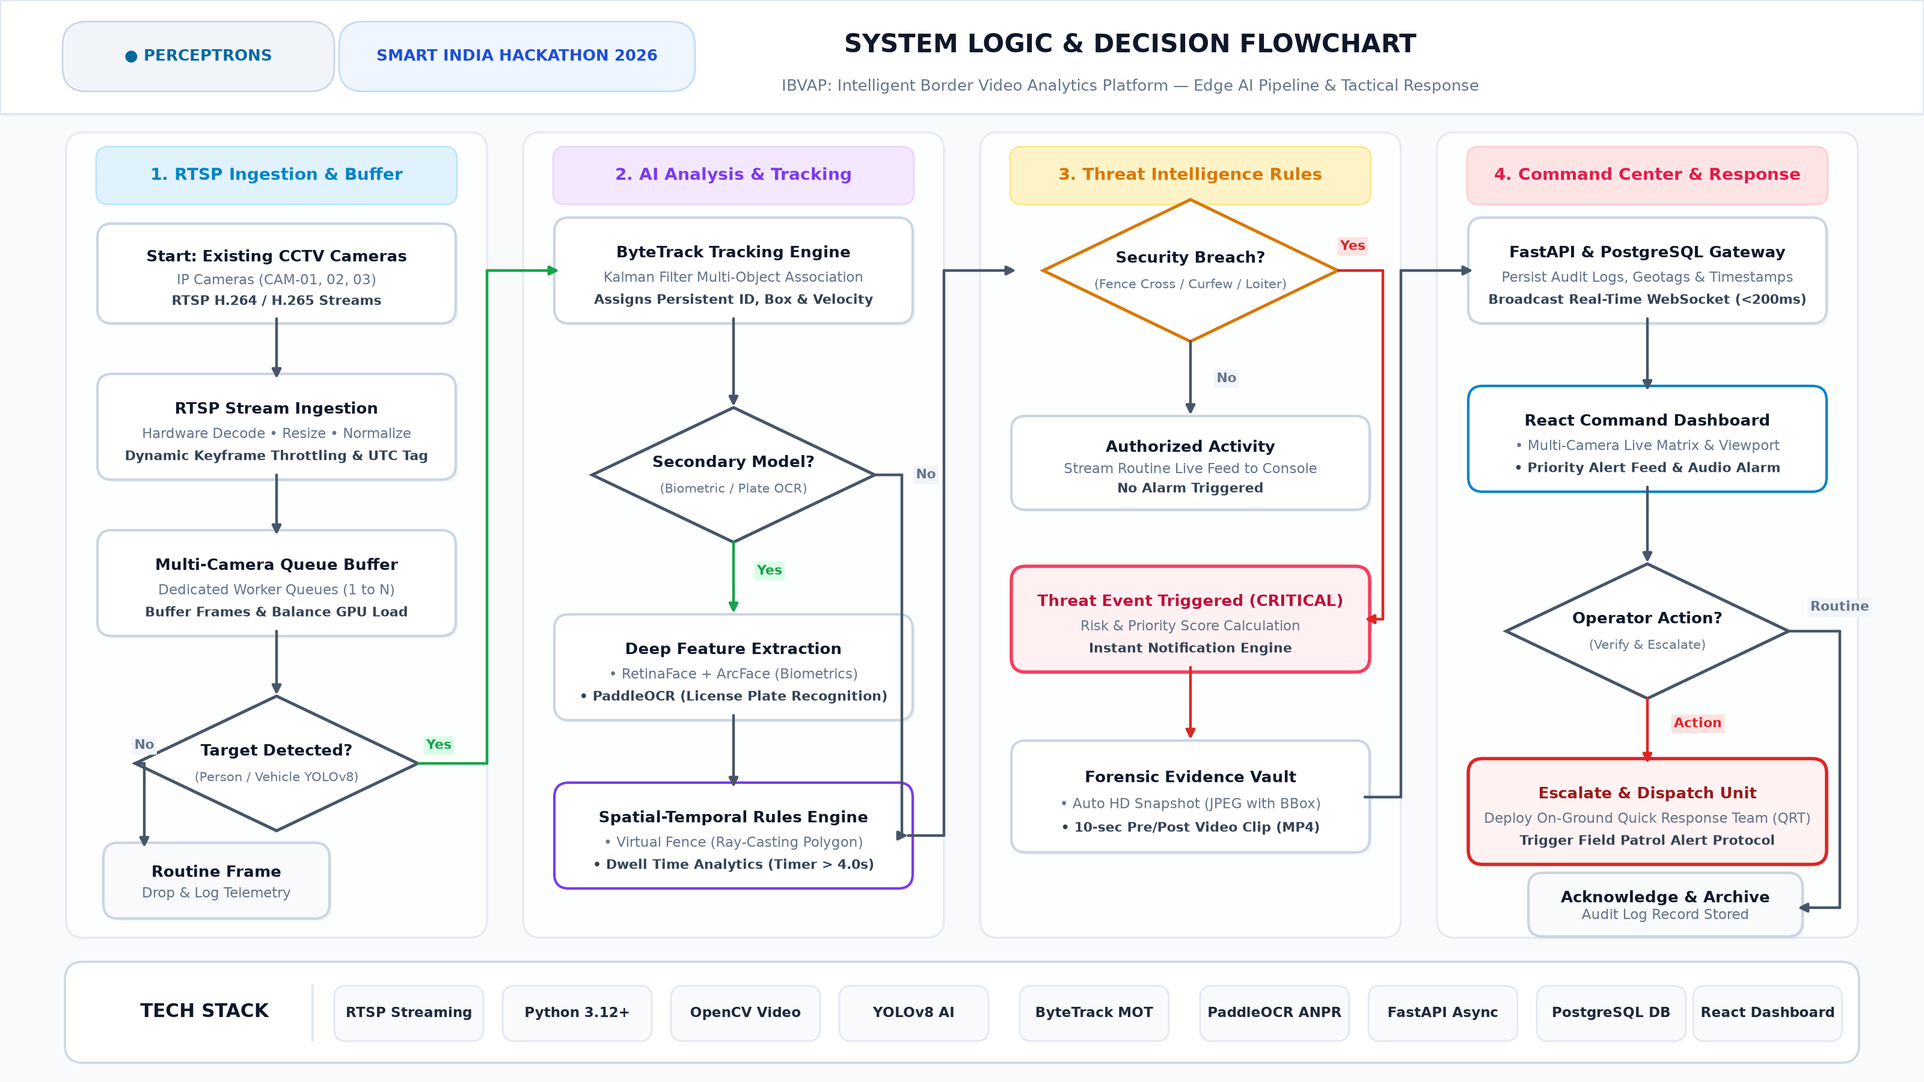
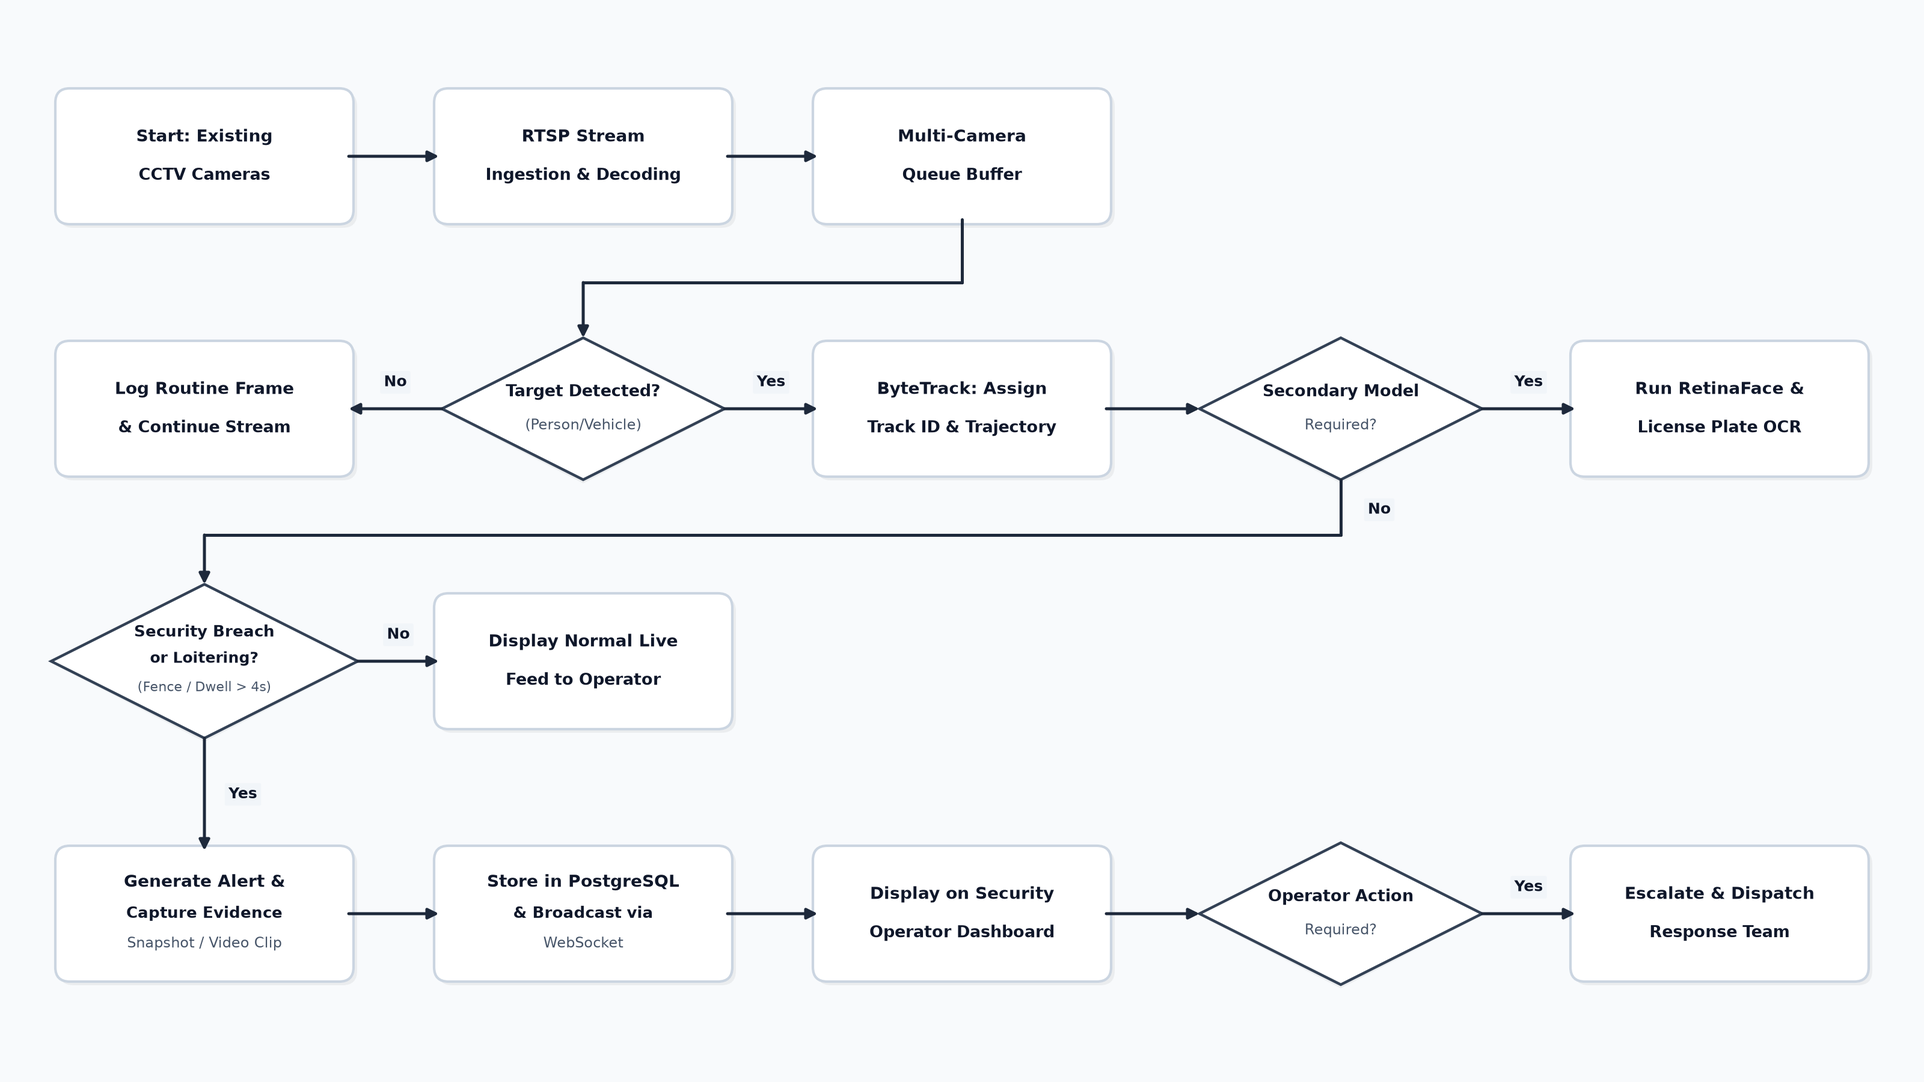
fix(flowchart): pure edge-to-edge layout without headers for SIH PPT slide space optimization

diff --git a/render_flowchart.py b/render_flowchart.py
@@ -1,258 +1,195 @@
 import matplotlib.pyplot as plt
 import matplotlib.patches as patches
 from matplotlib.patches import FancyBboxPatch, Polygon
-import numpy as np
 
-# Set figure for 16:9 widescreen presentation slide (1920x1080 at 120 dpi = 16 x 9 inches)
-fig = plt.figure(figsize=(16, 9), dpi=130)
+# Standard 16:9 presentation slide without headers or footers
+fig = plt.figure(figsize=(16, 9), dpi=150)
 ax = fig.add_axes([0, 0, 1, 1])
 ax.set_xlim(0, 16)
 ax.set_ylim(0, 9)
 ax.axis('off')
 
-# Background
+# Clean minimal presentation background
 fig.patch.set_facecolor('#F8FAFC')
 ax.set_facecolor('#F8FAFC')
 
-# ----------------- HEADER -----------------
-# Header banner
-header_bg = FancyBboxPatch((0, 8.05), 16, 0.95, boxstyle="square,pad=0", 
-                           facecolor="#FFFFFF", edgecolor="#E2E8F0", linewidth=1.5)
-ax.add_patch(header_bg)
-
-# Team / SIH Badges
-perceptrons_badge = FancyBboxPatch((0.6, 8.32), 2.1, 0.42, boxstyle="round,pad=0.08,rounding_size=0.2",
-                                   facecolor="#F1F5F9", edgecolor="#CBD5E1", linewidth=1)
-ax.add_patch(perceptrons_badge)
-ax.text(1.65, 8.53, "● PERCEPTRONS", color="#0369A1", fontsize=9.5, fontweight='bold', ha='center', va='center', fontfamily='sans-serif')
-
-sih_badge = FancyBboxPatch((2.9, 8.32), 2.8, 0.42, boxstyle="round,pad=0.08,rounding_size=0.2",
-                           facecolor="#EFF6FF", edgecolor="#BFDBFE", linewidth=1)
-ax.add_patch(sih_badge)
-ax.text(4.3, 8.53, "SMART INDIA HACKATHON 2026", color="#1D4ED8", fontsize=9.5, fontweight='bold', ha='center', va='center', fontfamily='sans-serif')
-
-# Main Title & Subtitle
-ax.text(9.4, 8.62, "SYSTEM LOGIC & DECISION FLOWCHART", color="#0F172A", fontsize=15, fontweight='black', ha='center', va='center', fontfamily='sans-serif')
-ax.text(9.4, 8.28, "IBVAP: Intelligent Border Video Analytics Platform — Edge AI Pipeline & Tactical Response", color="#64748B", fontsize=9.5, ha='center', va='center', fontfamily='sans-serif')
-
-# ----------------- COLUMN CONTAINERS & HEADERS -----------------
-cols_x = [0.6, 4.4, 8.2, 12.0]
-col_w = 3.4
-col_h = 6.6
-col_bottom = 1.25
-
-col_meta = [
-    ("1. RTSP Ingestion & Buffer", "#E0F2FE", "#BAE6FD", "#0284C7"),
-    ("2. AI Analysis & Tracking", "#F3E8FF", "#E9D5FF", "#7C3AED"),
-    ("3. Threat Intelligence Rules", "#FEF3C7", "#FDE68A", "#D97706"),
-    ("4. Command Center & Response", "#FFE4E6", "#FECDD3", "#E11D48"),
-]
-
-for idx, (cx, (title, bg, border, text_col)) in enumerate(zip(cols_x, col_meta)):
-    # Subtle Column Card
-    col_rect = FancyBboxPatch((cx, col_bottom), col_w, col_h, boxstyle="round,pad=0.05,rounding_size=0.15",
-                              facecolor="#FFFFFF", edgecolor="#E2E8F0", linewidth=1.2, alpha=0.85)
-    ax.add_patch(col_rect)
+# Helper: Draw Card
+def draw_card(cx, cy, w=2.4, h=1.05, title="", line2="", line3="", border="#CBD5E1", fill="#FFFFFF", tcol="#0F172A"):
+    x = cx - w / 2
+    y = cy - h / 2
     
-    # Column Header Pill
-    hdr_pill = FancyBboxPatch((cx + 0.25, 7.35), col_w - 0.5, 0.38, boxstyle="round,pad=0.05,rounding_size=0.1",
-                              facecolor=bg, edgecolor=border, linewidth=1)
-    ax.add_patch(hdr_pill)
-    ax.text(cx + col_w / 2, 7.54, title, color=text_col, fontsize=10, fontweight='bold', ha='center', va='center', fontfamily='sans-serif')
-
-# Helper function to draw cards
-def draw_card(x, y, w, h, title, subtitle="", sub2="", border="#CBD5E1", fill="#FFFFFF", tcol="#0F172A", alert=False):
-    shadow = FancyBboxPatch((x + 0.02, y - 0.02), w, h, boxstyle="round,pad=0.04,rounding_size=0.12",
-                            facecolor="#000000", edgecolor="none", alpha=0.04)
+    # Soft drop shadow
+    shadow = FancyBboxPatch((x + 0.03, y - 0.03), w, h, boxstyle="round,pad=0.04,rounding_size=0.12",
+                            facecolor="#000000", edgecolor="none", alpha=0.05)
     ax.add_patch(shadow)
+    
+    # Main card
     card = FancyBboxPatch((x, y), w, h, boxstyle="round,pad=0.04,rounding_size=0.12",
-                          facecolor=fill, edgecolor=border, linewidth=2.0 if alert else 1.5)
+                          facecolor=fill, edgecolor=border, linewidth=1.5)
     ax.add_patch(card)
     
-    if subtitle and sub2:
-        ax.text(x + w/2, y + h*0.68, title, color=tcol, fontsize=9.5, fontweight='bold', ha='center', va='center', fontfamily='sans-serif')
-        ax.text(x + w/2, y + h*0.42, subtitle, color="#64748B", fontsize=8.2, ha='center', va='center', fontfamily='sans-serif')
-        ax.text(x + w/2, y + h*0.19, sub2, color="#334155", fontsize=8.0, fontweight='semibold', ha='center', va='center', fontfamily='sans-serif')
-    elif subtitle:
-        ax.text(x + w/2, y + h*0.62, title, color=tcol, fontsize=9.5, fontweight='bold', ha='center', va='center', fontfamily='sans-serif')
-        ax.text(x + w/2, y + h*0.30, subtitle, color="#64748B", fontsize=8.2, ha='center', va='center', fontfamily='sans-serif')
-    else:
-        ax.text(x + w/2, y + h*0.5, title, color=tcol, fontsize=9.5, fontweight='bold', ha='center', va='center', fontfamily='sans-serif')
+    lines = [l for l in [title, line2, line3] if l]
+    if len(lines) == 1:
+        ax.text(cx, cy, lines[0], color=tcol, fontsize=10.5, fontweight='bold', ha='center', va='center', fontfamily='sans-serif')
+    elif len(lines) == 2:
+        ax.text(cx, cy + 0.16, lines[0], color=tcol, fontsize=10.2, fontweight='bold', ha='center', va='center', fontfamily='sans-serif')
+        ax.text(cx, cy - 0.16, lines[1], color=tcol, fontsize=9.8, fontweight='bold', ha='center', va='center', fontfamily='sans-serif')
+    elif len(lines) == 3:
+        ax.text(cx, cy + 0.26, lines[0], color=tcol, fontsize=10.0, fontweight='bold', ha='center', va='center', fontfamily='sans-serif')
+        ax.text(cx, cy, lines[1], color=tcol, fontsize=9.5, fontweight='bold', ha='center', va='center', fontfamily='sans-serif')
+        ax.text(cx, cy - 0.25, lines[2], color="#475569", fontsize=8.6, ha='center', va='center', fontfamily='sans-serif')
 
-# Helper function to draw diamond decision nodes
-def draw_diamond(cx, cy, dw, dh, title, subtitle="", border="#475569", fill="#FFFFFF", tcol="#0F172A"):
-    # Shadow
-    shadow = Polygon([[cx, cy + dh/2 - 0.02], [cx + dw/2 + 0.02, cy], [cx, cy - dh/2 - 0.02], [cx - dw/2 - 0.02, cy]],
-                     closed=True, facecolor="#000000", edgecolor="none", alpha=0.04)
+# Helper: Draw Diamond
+def draw_diamond(cx, cy, dw=2.35, dh=1.18, title="", line2="", line3="", border="#334155", fill="#FFFFFF", tcol="#0F172A"):
+    # Soft shadow
+    shadow = Polygon([[cx, cy + dh/2 - 0.03], [cx + dw/2 + 0.03, cy], [cx, cy - dh/2 - 0.03], [cx - dw/2 - 0.03, cy]],
+                     closed=True, facecolor="#000000", edgecolor="none", alpha=0.05)
     ax.add_patch(shadow)
     
-    # Diamond shape
+    # Diamond
     diamond = Polygon([[cx, cy + dh/2], [cx + dw/2, cy], [cx, cy - dh/2], [cx - dw/2, cy]],
-                      closed=True, facecolor=fill, edgecolor=border, linewidth=1.8)
+                      closed=True, facecolor=fill, edgecolor=border, linewidth=1.6)
     ax.add_patch(diamond)
     
-    if subtitle:
-        ax.text(cx, cy + 0.10, title, color=tcol, fontsize=9.2, fontweight='bold', ha='center', va='center', fontfamily='sans-serif')
-        ax.text(cx, cy - 0.12, subtitle, color="#64748B", fontsize=7.6, ha='center', va='center', fontfamily='sans-serif')
-    else:
-        ax.text(cx, cy, title, color=tcol, fontsize=9.2, fontweight='bold', ha='center', va='center', fontfamily='sans-serif')
+    lines = [l for l in [title, line2, line3] if l]
+    if len(lines) == 1:
+        ax.text(cx, cy, lines[0], color=tcol, fontsize=10.0, fontweight='bold', ha='center', va='center', fontfamily='sans-serif')
+    elif len(lines) == 2:
+        ax.text(cx, cy + 0.14, lines[0], color=tcol, fontsize=9.8, fontweight='bold', ha='center', va='center', fontfamily='sans-serif')
+        ax.text(cx, cy - 0.14, lines[1], color="#475569", fontsize=8.8, ha='center', va='center', fontfamily='sans-serif')
+    elif len(lines) == 3:
+        ax.text(cx, cy + 0.24, lines[0], color=tcol, fontsize=9.4, fontweight='bold', ha='center', va='center', fontfamily='sans-serif')
+        ax.text(cx, cy + 0.02, lines[1], color=tcol, fontsize=9.0, fontweight='bold', ha='center', va='center', fontfamily='sans-serif')
+        ax.text(cx, cy - 0.22, lines[2], color="#475569", fontsize=8.0, ha='center', va='center', fontfamily='sans-serif')
 
-# Helper for orthogonal arrows
-def draw_arrow(x1, y1, x2, y2, color="#475569", lw=1.6):
+# Helper: Draw Straight Arrow
+def draw_arrow(x1, y1, x2, y2, color="#1E293B", lw=1.8):
     ax.annotate('', xy=(x2, y2), xytext=(x1, y1),
-                arrowprops=dict(arrowstyle="-|>", color=color, lw=lw, mutation_scale=11, 
-                                shrinkA=0, shrinkB=0))
+                arrowprops=dict(arrowstyle="-|>", color=color, lw=lw, mutation_scale=13, shrinkA=0, shrinkB=0))
 
-def draw_corner_arrow(points, color="#475569", lw=1.6):
+# Helper: Draw Orthogonal Corner Arrow
+def draw_corner_arrow(points, color="#1E293B", lw=1.8):
     for i in range(len(points) - 2):
         p1, p2 = points[i], points[i+1]
         ax.plot([p1[0], p2[0]], [p1[1], p2[1]], color=color, lw=lw, solid_capstyle='round')
-    # Final segment with arrow
     p1, p2 = points[-2], points[-1]
     ax.annotate('', xy=(p2[0], p2[1]), xytext=(p1[0], p1[1]),
-                arrowprops=dict(arrowstyle="-|>", color=color, lw=lw, mutation_scale=11, 
-                                shrinkA=0, shrinkB=0))
+                arrowprops=dict(arrowstyle="-|>", color=color, lw=lw, mutation_scale=13, shrinkA=0, shrinkB=0))
 
-def draw_label(x, y, text, color="#16A34A", bg="#DCFCE7"):
-    bbox_props = dict(boxstyle="round,pad=0.2,rounding_size=0.1", fc=bg, ec="none")
-    ax.text(x, y, text, color=color, fontsize=8.0, fontweight='bold', ha='center', va='center', bbox=bbox_props)
+# Helper: Branch Label
+def draw_label(x, y, text, color="#0F172A", bg="#F1F5F9"):
+    bbox_props = dict(boxstyle="round,pad=0.25,rounding_size=0.1", fc=bg, ec="none")
+    ax.text(x, y, text, color=color, fontsize=9.0, fontweight='bold', ha='center', va='center', bbox=bbox_props)
+
+
+# =========================================================================
+# EXACT 5-COLUMN COORDINATES ACROSS 4 ROWS
+# =========================================================================
+x_col1 = 1.70
+x_col2 = 4.85
+x_col3 = 8.00
+x_col4 = 11.15
+x_col5 = 14.30
+
+y_row1 = 7.70
+y_row2 = 5.60
+y_row3 = 3.50
+y_row4 = 1.40
+
+card_w = 2.40
+card_h = 1.05
+
+# ==========================================
+# ROW 1
+# ==========================================
+draw_card(x_col1, y_row1, card_w, card_h, "Start: Existing", "CCTV Cameras")
+draw_arrow(x_col1 + card_w/2, y_row1, x_col2 - card_w/2, y_row1)
+
+draw_card(x_col2, y_row1, card_w, card_h, "RTSP Stream", "Ingestion & Decoding")
+draw_arrow(x_col2 + card_w/2, y_row1, x_col3 - card_w/2, y_row1)
+
+draw_card(x_col3, y_row1, card_w, card_h, "Multi-Camera", "Queue Buffer")
+
+# Arrow from Row 1 Queue Buffer down and left to Row 2 Target Detected
+draw_corner_arrow([
+    (x_col3, y_row1 - card_h/2),
+    (x_col3, (y_row1 + y_row2)/2),
+    (x_col2, (y_row1 + y_row2)/2),
+    (x_col2, y_row2 + 1.18/2)
+])
 
 
 # ==========================================
-# COLUMN 1: Ingestion & Buffer
+# ROW 2
 # ==========================================
-c1_x = 0.85
-c1_w = 2.9
-draw_card(c1_x, 6.35, c1_w, 0.75, "Start: Existing CCTV Cameras", "IP Cameras (CAM-01, 02, 03)", "RTSP H.264 / H.265 Streams")
-draw_arrow(c1_x + c1_w/2, 6.35, c1_x + c1_w/2, 5.85)
+# Diamond: Target Detected?
+draw_diamond(x_col2, y_row2, 2.35, 1.18, "Target Detected?", "(Person/Vehicle)")
 
-draw_card(c1_x, 5.05, c1_w, 0.80, "RTSP Stream Ingestion", "Hardware Decode • Resize • Normalize", "Dynamic Keyframe Throttling & UTC Tag")
-draw_arrow(c1_x + c1_w/2, 5.05, c1_x + c1_w/2, 4.55)
+# Branch No -> Log Routine Frame (Col 1)
+draw_arrow(x_col2 - 2.35/2, y_row2, x_col1 + card_w/2, y_row2)
+draw_label((x_col2 - 2.35/2 + x_col1 + card_w/2)/2, y_row2 + 0.22, "No")
+draw_card(x_col1, y_row2, card_w, card_h, "Log Routine Frame", "& Continue Stream")
 
-draw_card(c1_x, 3.75, c1_w, 0.80, "Multi-Camera Queue Buffer", "Dedicated Worker Queues (1 to N)", "Buffer Frames & Balance GPU Load")
-draw_arrow(c1_x + c1_w/2, 3.75, c1_x + c1_w/2, 3.22)
+# Branch Yes -> ByteTrack (Col 3)
+draw_arrow(x_col2 + 2.35/2, y_row2, x_col3 - card_w/2, y_row2)
+draw_label((x_col2 + 2.35/2 + x_col3 - card_w/2)/2, y_row2 + 0.22, "Yes")
+draw_card(x_col3, y_row2, card_w, card_h, "ByteTrack: Assign", "Track ID & Trajectory")
 
-draw_diamond(c1_x + c1_w/2, 2.65, 2.35, 1.12, "Target Detected?", "(Person / Vehicle YOLOv8)")
+# Arrow to Secondary Model (Col 4)
+draw_arrow(x_col3 + card_w/2, y_row2, x_col4 - 2.35/2, y_row2)
+draw_diamond(x_col4, y_row2, 2.35, 1.18, "Secondary Model", "Required?")
 
-# Col 1 Branch No -> Discard
-draw_corner_arrow([(c1_x + c1_w/2 - 1.18, 2.65), (c1_x + 0.35, 2.65), (c1_x + 0.35, 1.95)])
-draw_label(c1_x + 0.35, 2.80, "No", color="#64748B", bg="#F1F5F9")
-draw_card(c1_x + 0.05, 1.40, 1.8, 0.55, "Routine Frame", "Drop & Log Telemetry", fill="#F8FAFC", border="#CBD5E1")
+# Branch Yes -> Run RetinaFace & License Plate OCR (Col 5)
+draw_arrow(x_col4 + 2.35/2, y_row2, x_col5 - card_w/2, y_row2)
+draw_label((x_col4 + 2.35/2 + x_col5 - card_w/2)/2, y_row2 + 0.22, "Yes")
+draw_card(x_col5, y_row2, card_w, card_h, "Run RetinaFace &", "License Plate OCR")
 
-# Col 1 Branch Yes -> to Column 2 ByteTrack
-draw_corner_arrow([(c1_x + c1_w/2 + 1.18, 2.65), (4.05, 2.65), (4.05, 6.75), (4.65, 6.75)], color="#16A34A")
-draw_label(3.65, 2.80, "Yes", color="#16A34A", bg="#DCFCE7")
-
-
-# ==========================================
-# COLUMN 2: AI Pipeline & Tracking
-# ==========================================
-c2_x = 4.65
-c2_w = 2.9
-draw_card(c2_x, 6.35, c2_w, 0.80, "ByteTrack Tracking Engine", "Kalman Filter Multi-Object Association", "Assigns Persistent ID, Box & Velocity")
-draw_arrow(c2_x + c2_w/2, 6.35, c2_x + c2_w/2, 5.62)
-
-draw_diamond(c2_x + c2_w/2, 5.05, 2.35, 1.12, "Secondary Model?", "(Biometric / Plate OCR)")
-
-# Diamond 2 Branch Yes -> Deep Feature Extraction
-draw_arrow(c2_x + c2_w/2, 4.49, c2_x + c2_w/2, 3.90, color="#16A34A")
-draw_label(c2_x + c2_w/2 + 0.30, 4.25, "Yes", color="#16A34A", bg="#DCFCE7")
-
-draw_card(c2_x, 3.05, c2_w, 0.80, "Deep Feature Extraction", "• RetinaFace + ArcFace (Biometrics)", "• PaddleOCR (License Plate Recognition)")
-
-# Box 2.2 -> Rules Engine
-draw_arrow(c2_x + c2_w/2, 3.05, c2_x + c2_w/2, 2.45)
-
-# Diamond 2 Branch No -> Bypass to Rules Engine
-draw_corner_arrow([(c2_x + c2_w/2 + 1.18, 5.05), (c2_x + c2_w - 0.05, 5.05), (c2_x + c2_w - 0.05, 2.05), (c2_x + c2_w/2 + 1.45, 2.05)])
-draw_label(c2_x + c2_w + 0.15, 5.05, "No", color="#64748B", bg="#F1F5F9")
-
-draw_card(c2_x, 1.65, c2_w, 0.80, "Spatial-Temporal Rules Engine", "• Virtual Fence (Ray-Casting Polygon)", "• Dwell Time Analytics (Timer > 4.0s)", border="#7C3AED")
-
-# Col 2 to Col 3 (Rules Engine -> Security Breach Decision)
-draw_corner_arrow([(c2_x + c2_w, 2.05), (7.85, 2.05), (7.85, 6.75), (8.45, 6.75)])
+# Branch No -> Goes down and left to Row 3 Security Breach Diamond
+draw_corner_arrow([
+    (x_col4, y_row2 - 1.18/2),
+    (x_col4, (y_row2 + y_row3)/2),
+    (x_col1, (y_row2 + y_row3)/2),
+    (x_col1, y_row3 + 1.28/2)
+])
+draw_label(x_col4 + 0.32, y_row2 - 1.18/2 - 0.25, "No")
 
 
 # ==========================================
-# COLUMN 3: Threat Intelligence
+# ROW 3
 # ==========================================
-c3_x = 8.45
-c3_w = 2.9
+# Diamond: Security Breach or Loitering?
+draw_diamond(x_col1, y_row3, 2.55, 1.28, "Security Breach", "or Loitering?", "(Fence / Dwell > 4s)")
 
-draw_diamond(c3_x + c3_w/2, 6.75, 2.45, 1.18, "Security Breach?", "(Fence Cross / Curfew / Loiter)", border="#D97706")
+# Branch No -> Display Normal Live Feed (Col 2)
+draw_arrow(x_col1 + 2.55/2, y_row3, x_col2 - card_w/2, y_row3)
+draw_label((x_col1 + 2.55/2 + x_col2 - card_w/2)/2, y_row3 + 0.22, "No")
+draw_card(x_col2, y_row3, card_w, card_h, "Display Normal Live", "Feed to Operator")
 
-# Breach No -> Authorized Activity
-draw_arrow(c3_x + c3_w/2, 6.16, c3_x + c3_w/2, 5.55)
-draw_label(c3_x + c3_w/2 + 0.30, 5.85, "No", color="#64748B", bg="#F1F5F9")
-draw_card(c3_x, 4.80, c3_w, 0.70, "Authorized Activity", "Stream Routine Live Feed to Console", "No Alarm Triggered")
-
-# Breach Yes -> Threat Event Triggered
-draw_corner_arrow([(c3_x + c3_w/2 + 1.23, 6.75), (c3_x + c3_w + 0.15, 6.75), (c3_x + c3_w + 0.15, 3.85), (c3_x + c3_w, 3.85)], color="#DC2626")
-draw_label(c3_x + c3_w - 0.10, 6.95, "Yes", color="#DC2626", bg="#FEE2E2")
-
-draw_card(c3_x, 3.45, c3_w, 0.80, "Threat Event Triggered (CRITICAL)", "Risk & Priority Score Calculation", "Instant Notification Engine", border="#F43F5E", fill="#FFF1F2", tcol="#BE123C", alert=True)
-draw_arrow(c3_x + c3_w/2, 3.45, c3_w/2 + c3_x, 2.85, color="#DC2626")
-
-draw_card(c3_x, 1.95, c3_w, 0.85, "Forensic Evidence Vault", "• Auto HD Snapshot (JPEG with BBox)", "• 10-sec Pre/Post Video Clip (MP4)", border="#CBD5E1")
-
-# Col 3 to Col 4 (Evidence -> Gateway)
-draw_corner_arrow([(c3_x + c3_w, 2.37), (11.65, 2.37), (11.65, 6.75), (12.25, 6.75)])
+# Branch Yes -> Drops straight down to Row 4
+draw_arrow(x_col1, y_row3 - 1.28/2, x_col1, y_row4 + card_h/2)
+draw_label(x_col1 + 0.32, (y_row3 - 1.28/2 + y_row4 + card_h/2)/2, "Yes")
 
 
 # ==========================================
-# COLUMN 4: Command Center & Response
+# ROW 4
 # ==========================================
-c4_x = 12.25
-c4_w = 2.9
-draw_card(c4_x, 6.35, c4_w, 0.80, "FastAPI & PostgreSQL Gateway", "Persist Audit Logs, Geotags & Timestamps", "Broadcast Real-Time WebSocket (<200ms)")
-draw_arrow(c4_x + c4_w/2, 6.35, c4_x + c4_w/2, 5.75)
+draw_card(x_col1, y_row4, card_w, card_h, "Generate Alert &", "Capture Evidence", "Snapshot / Video Clip")
+draw_arrow(x_col1 + card_w/2, y_row4, x_col2 - card_w/2, y_row4)
 
-draw_card(c4_x, 4.95, c4_w, 0.80, "React Command Dashboard", "• Multi-Camera Live Matrix & Viewport", "• Priority Alert Feed & Audio Alarm", border="#0284C7")
-draw_arrow(c4_x + c4_w/2, 4.95, c4_x + c4_w/2, 4.32)
+draw_card(x_col2, y_row4, card_w, card_h, "Store in PostgreSQL", "& Broadcast via", "WebSocket")
+draw_arrow(x_col2 + card_w/2, y_row4, x_col3 - card_w/2, y_row4)
 
-draw_diamond(c4_x + c4_w/2, 3.75, 2.35, 1.12, "Operator Action?", "(Verify & Escalate)")
+draw_card(x_col3, y_row4, card_w, card_h, "Display on Security", "Operator Dashboard")
+draw_arrow(x_col3 + card_w/2, y_row4, x_col4 - 2.35/2, y_row4)
 
-# Action Required -> Escalate
-draw_arrow(c4_x + c4_w/2, 3.19, c4_x + c4_w/2, 2.65, color="#DC2626")
-draw_label(c4_x + c4_w/2 + 0.42, 2.98, "Action", color="#DC2626", bg="#FEE2E2")
+draw_diamond(x_col4, y_row4, 2.35, 1.18, "Operator Action", "Required?")
 
-draw_card(c4_x, 1.85, c4_w, 0.80, "Escalate & Dispatch Unit", "Deploy On-Ground Quick Response Team (QRT)", "Trigger Field Patrol Alert Protocol", border="#DC2626", fill="#FEF2F2", tcol="#991B1B", alert=True)
+draw_arrow(x_col4 + 2.35/2, y_row4, x_col5 - card_w/2, y_row4)
+draw_label((x_col4 + 2.35/2 + x_col5 - card_w/2)/2, y_row4 + 0.22, "Yes")
 
-# Routine -> Archive
-draw_corner_arrow([(c4_x + c4_w/2 + 1.18, 3.75), (c4_x + c4_w + 0.15, 3.75), (c4_x + c4_w + 0.15, 1.45), (c4_x + c4_w - 0.2, 1.45)])
-draw_label(c4_x + c4_w + 0.15, 3.95, "Routine", color="#64748B", bg="#F1F5F9")
-draw_card(c4_x + 0.5, 1.25, 2.2, 0.45, "Acknowledge & Archive", "Audit Log Record Stored", fill="#F8FAFC", border="#CBD5E1")
+draw_card(x_col5, y_row4, card_w, card_h, "Escalate & Dispatch", "Response Team")
 
-
-# ==========================================
-# BOTTOM TECH STACK FOOTER
-# ==========================================
-footer_bg = FancyBboxPatch((0.6, 0.22), 14.8, 0.72, boxstyle="round,pad=0.06,rounding_size=0.15",
-                           facecolor="#FFFFFF", edgecolor="#CBD5E1", linewidth=1.2)
-ax.add_patch(footer_bg)
-
-ax.text(1.7, 0.58, "TECH STACK", color="#0F172A", fontsize=11, fontweight='bold', ha='center', va='center', fontfamily='sans-serif')
-ax.plot([2.6, 2.6], [0.35, 0.80], color="#E2E8F0", lw=1.5)
-
-tech_items = [
-    ("RTSP Streaming", 3.4),
-    ("Python 3.12+", 4.8),
-    ("OpenCV Video", 6.2),
-    ("YOLOv8 AI", 7.6),
-    ("ByteTrack MOT", 9.1),
-    ("PaddleOCR ANPR", 10.6),
-    ("FastAPI Async", 12.0),
-    ("PostgreSQL DB", 13.4),
-    ("React Dashboard", 14.7),
-]
-
-for name, tx in tech_items:
-    pill = FancyBboxPatch((tx - 0.58, 0.38), 1.16, 0.38, boxstyle="round,pad=0.04,rounding_size=0.1",
-                          facecolor="#F8FAFC", edgecolor="#E2E8F0", linewidth=1)
-    ax.add_patch(pill)
-    ax.text(tx, 0.57, name, color="#1E293B", fontsize=8.2, fontweight='bold', ha='center', va='center', fontfamily='sans-serif')
-
-# Save outputs
+# Save high-resolution outputs
 plt.savefig("flowchart_decision_tree_ppt.jpg", dpi=200, facecolor=fig.get_facecolor(), edgecolor='none')
 plt.savefig("flowchart_decision_tree_ppt.png", dpi=200, facecolor=fig.get_facecolor(), edgecolor='none')
-print("Successfully rendered flowchart_decision_tree_ppt.jpg and .png with pixel-perfect alignment!")
+print("Complete pure flowchart rendered with exact alignment!")
